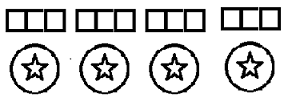
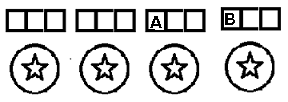
あつもり謎解き

Changed region(s): [[0.5, 0.1471, 0.5625, 0.2941], [0.7812, 0.1176, 0.8125, 0.2647]]

diff --git a/main/index.html b/main/index.html
@@ -107,7 +107,7 @@
 
    <div class="collapse" id="collapseExample4" value="4">
    <br>
-   <h5>耳を澄まして</h5>
+   <h5>触って耳を澄まして</h5>
    <br>
    <a onClick="sound()">
     <img src="../img/bell.png"  id="">
@@ -117,7 +117,8 @@
     <a onClick="sound2()">
     <img src="../img/bell2.png"  id="">
    </a>  
-   
+   <h5>キーワードは</h5>
+  <h3>ABC</h3>
   </div>
   <br>
   <br>
